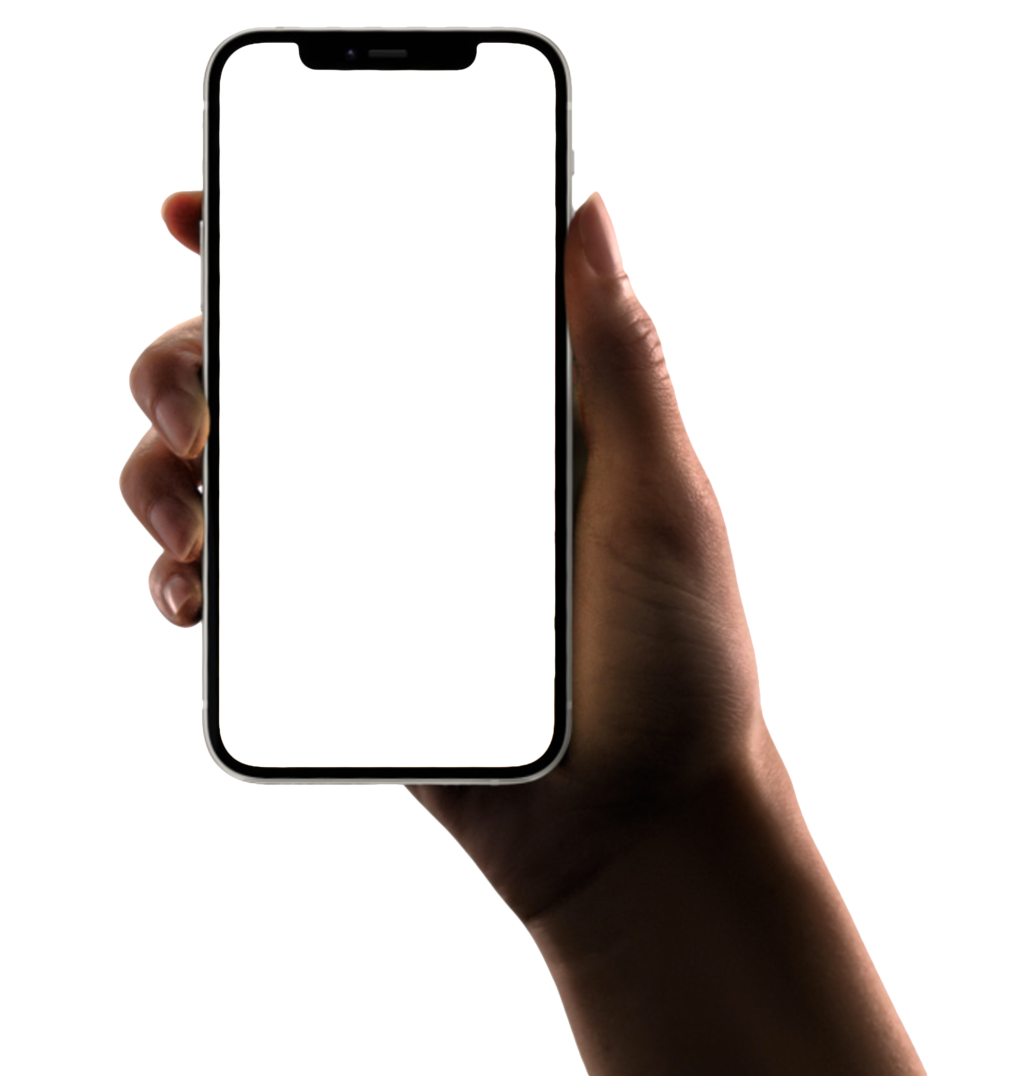
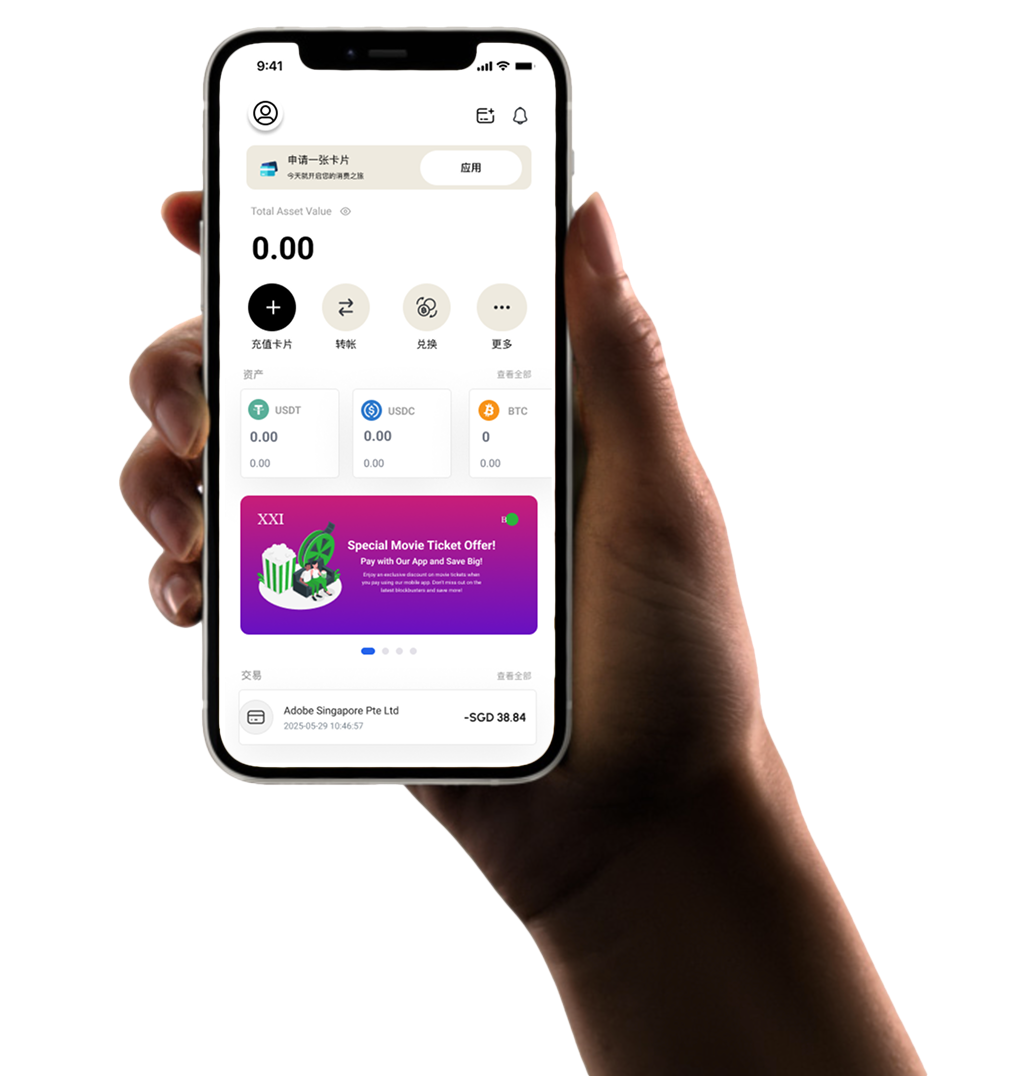
feature - 新增其他语言的图片

diff --git a/src/components/Header.vue b/src/components/Header.vue
@@ -1,9 +1,12 @@
 <script setup lang="ts">
 // import { useScroll } from '@vueuse/core'
 
-import {computed, onMounted, ref} from "vue";
+import {computed, ref} from "vue";
 import { useI18n } from 'vue-i18n';
 import { DOWNLINK } from "@/constants";
+import headerImgZh from '@/assets/images/icon-take-phone-zh.png'
+import headerImgEn from '@/assets/images/icon-take-phone-en.png'
+import headerImgTc from '@/assets/images/icon-take-phone-tc.png'
 
 defineProps<{
   isFeature: boolean
@@ -11,19 +14,6 @@ defineProps<{
 }>()
 
 // const { y } = useScroll(window)
-
-onMounted(() => {
-  // 等待页面挂载后再使用
-  // if (window.scBotHandler) {
-  //   window.scBotHandler.expand() // 展开机器人
-  //   // window.scBotHandler.expand({ message: 'Hello, world!' }) // 带消息展开
-  //   // window.scBotHandler.collapse() // 折叠
-  //   // window.scBotHandler.enable() // 显示按钮
-  //   // window.scBotHandler.disable() // 隐藏按钮
-  // } else {
-  //   console.warn('scBotHandler 尚未加载完成')
-  // }
-})
 
 const { locale, t } = useI18n()
 
@@ -37,6 +27,12 @@ const languageList = computed(() => [
   { label: t('language.zhtw'), value: 'zhtw' },
   { label: t('language.en'), value: 'en' },
 ])
+
+const headerImage = computed(() => {
+  if (locale.value === 'zh') return headerImgZh
+  if (locale.value === 'zhtw') return headerImgTc
+  return headerImgEn
+})
 
 // const currentLanguageLabel = computed(() => {
 //   return languageList.value.find(item => item.value === selectedLanguage.value)?.label || ''
@@ -159,7 +155,7 @@ const openCustomerService = () => {
 <!--      </div>-->
 <!--    </div>-->
     <div class="header-img">
-      <img src="@/assets/images/icon-take-phone.png" alt=""/>
+      <img :src="headerImage" alt=""/>
     </div>
     <div class="header-img" style="margin-top: 0">
       <img src="@/assets/images/header-partner.png" style="width: 100%" alt=""/>

diff --git a/src/components/Header-web.vue b/src/components/Header-web.vue
@@ -1,26 +1,17 @@
 <script setup lang="ts">
 // import { useScroll } from '@vueuse/core'
-import { computed, ref, onMounted } from "vue";
+import { computed, ref } from "vue";
 import { DOWNLINK } from '@/constants/index'
 import { useI18n } from 'vue-i18n'
+import headerImgZh from '@/assets/images/icon-take-phone-zh.png'
+import headerImgEn from '@/assets/images/icon-take-phone-en.png'
+import headerImgTc from '@/assets/images/icon-take-phone-tc.png'
 
 defineProps<{
   isFeature: boolean
   isExplore: boolean
 }>()
 
-onMounted(() => {
-  // 等待页面挂载后再使用
-  // if (window.scBotHandler) {
-  //   window.scBotHandler.expand() // 展开机器人
-  //   // window.scBotHandler.expand({ message: 'Hello, world!' }) // 带消息展开
-  //   // window.scBotHandler.collapse() // 折叠
-  //   // window.scBotHandler.enable() // 显示按钮
-  //   // window.scBotHandler.disable() // 隐藏按钮
-  // } else {
-  //   console.warn('scBotHandler 尚未加载完成')
-  // }
-})
 
 const getInvitationCode = (): string | null => {
   const url = new URL(window.location.href)
@@ -84,6 +75,12 @@ const openCustomerService = () => {
     console.warn('客服系统尚未加载')
   }
 }
+
+const headerImage = computed(() => {
+  if (locale.value === 'zh') return headerImgZh
+  if (locale.value === 'zhtw') return headerImgTc
+  return headerImgEn
+})
 </script>
 <template>
   <div class="header-part">
@@ -167,7 +164,7 @@ const openCustomerService = () => {
         <img src="@/assets/images/icon-card.png" style="width: 343px; height: 218px" alt="" />
       </div>
       <div style="position: absolute; margin-top: -260px; right: 0">
-        <img src="@/assets/images/icon-take-phone.png" style="width: 695px; height: 739px" alt="" />
+        <img :src="headerImage" style="width: 695px; height: 739px" alt="" />
       </div>
     </div>
   </div>

diff --git a/src/components/Explore.vue b/src/components/Explore.vue
@@ -1,13 +1,16 @@
 <script setup lang="ts">
-import { ref } from 'vue'
+import {computed, ref} from 'vue'
 import { useI18n } from "vue-i18n";
 import {DOWNLINK} from "@/constants";
+import headerImgZh from '@/assets/images/icon-take-phone-zh.png'
+import headerImgEn from '@/assets/images/icon-take-phone-en.png'
+import headerImgTc from '@/assets/images/icon-take-phone-tc.png'
 // import type {CollapseModelValue} from "element-plus";
 
 const el = ref<HTMLElement | null>(null)
 
 defineExpose({ el })
-const { t } = useI18n()
+const { locale, t } = useI18n()
 
 const getInvitationCode = (): string | null => {
   const url = new URL(window.location.href)
@@ -35,6 +38,12 @@ const copyInvitationCode = () => {
     console.log('没有邀请码，不执行复制')
   }
 }
+
+const headerImage = computed(() => {
+  if (locale.value === 'zh') return headerImgZh
+  if (locale.value === 'zhtw') return headerImgTc
+  return headerImgEn
+})
 </script>
 <template>
     <section class="lg:px-0 relative" ref="el">
@@ -59,7 +68,7 @@ const copyInvitationCode = () => {
           <a :href="DOWNLINK" @click="copyInvitationCode"><img src="@/assets/images/download-android.png" alt="" /></a>
         </div>
         <div style="margin-top: 30px; display: flex; justify-content: center;">
-          <img src="@/assets/images/phone-hand.png" style="width: 70%;" alt="" />
+          <img :src="headerImage" style="width: 70%;" alt="" />
         </div>
       </div>
     </section>

diff --git a/src/components/Feature-web.vue b/src/components/Feature-web.vue
@@ -1,12 +1,15 @@
 <script setup lang="ts">
-import {ref} from 'vue'
+import {computed, ref} from 'vue'
 import {useI18n} from "vue-i18n";
 import {DOWNLINK} from "@/constants";
+import headerImgZh from '@/assets/images/icon-take-phone-zh.png'
+import headerImgEn from '@/assets/images/icon-take-phone-en.png'
+import headerImgTc from '@/assets/images/icon-take-phone-tc.png'
 
 const el = ref<HTMLElement | null>(null)
 
 defineExpose({el})
-const { t } = useI18n()
+const { locale, t } = useI18n()
 
 const selected = ref<'virtual' | 'physical'>('virtual')
 
@@ -38,6 +41,12 @@ const copyInvitationCode = () => {
     console.log('没有邀请码，不执行复制')
   }
 }
+
+const headerImage = computed(() => {
+  if (locale.value === 'zh') return headerImgZh
+  if (locale.value === 'zhtw') return headerImgTc
+  return headerImgEn
+})
 </script>
 <template>
   <section class="relative" ref="el">
@@ -230,7 +239,7 @@ const copyInvitationCode = () => {
           </div>
         </div>
         <div>
-          <img src="@/assets/images/icon-take-phone.png" style="width: 495px; height: 539px" alt="" />
+          <img :src="headerImage" style="width: 495px; height: 539px" alt="" />
         </div>
       </div>
     </div>